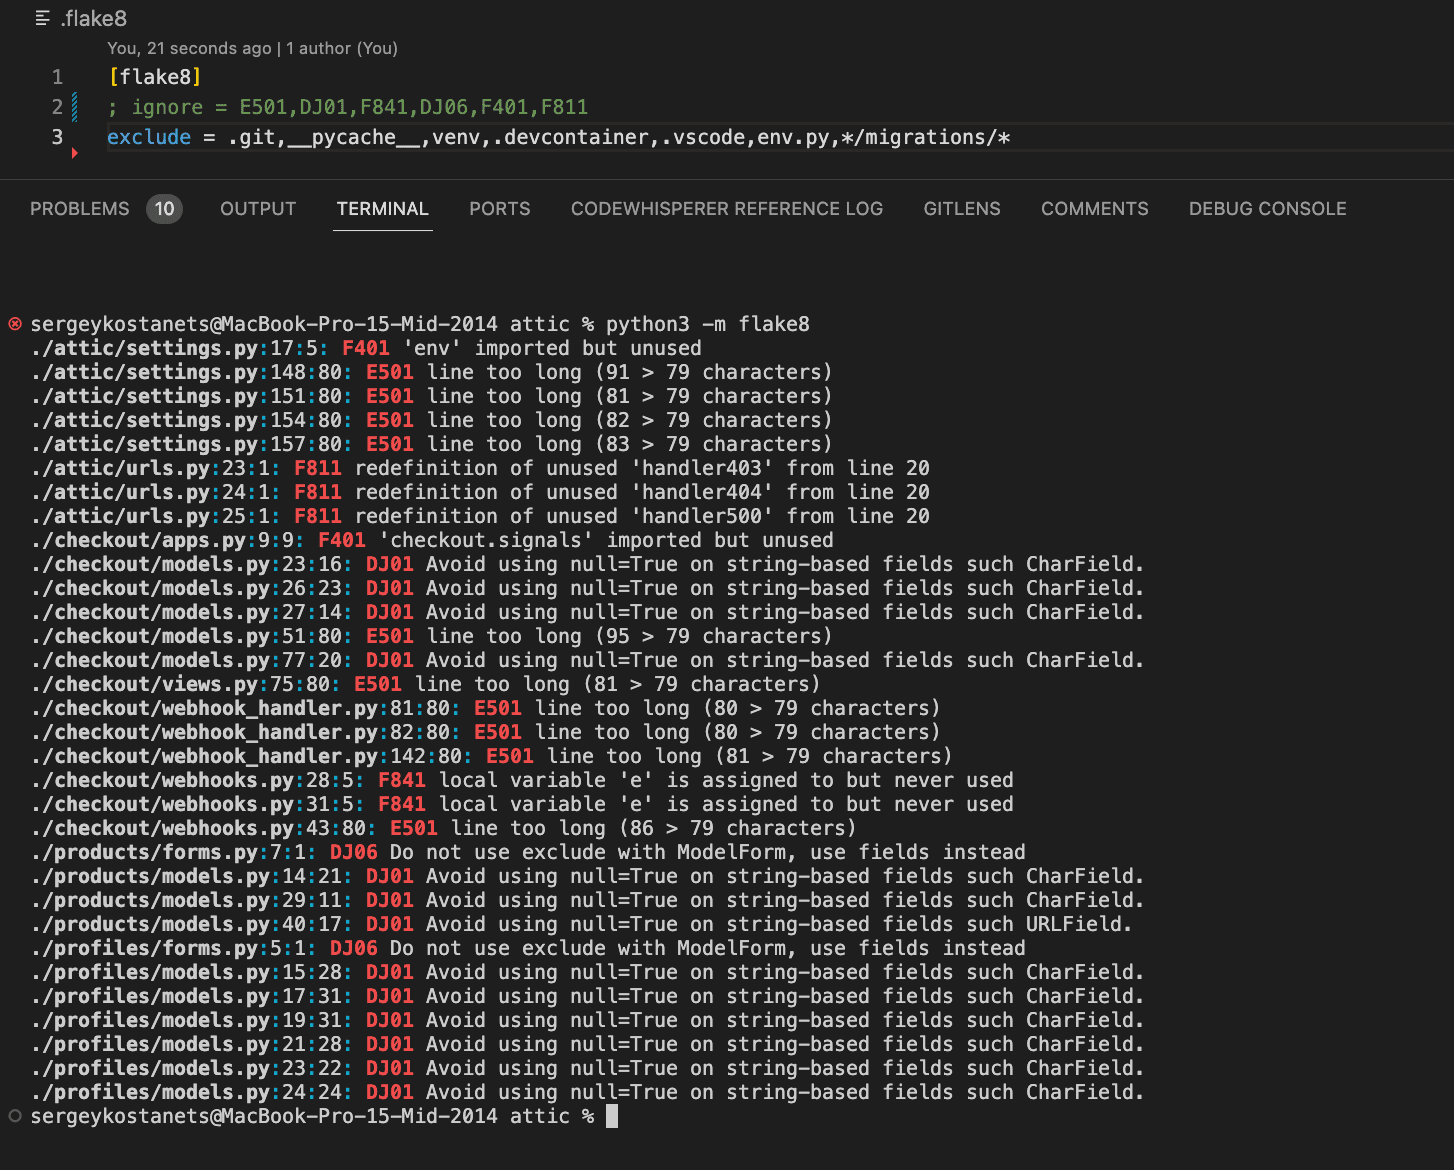
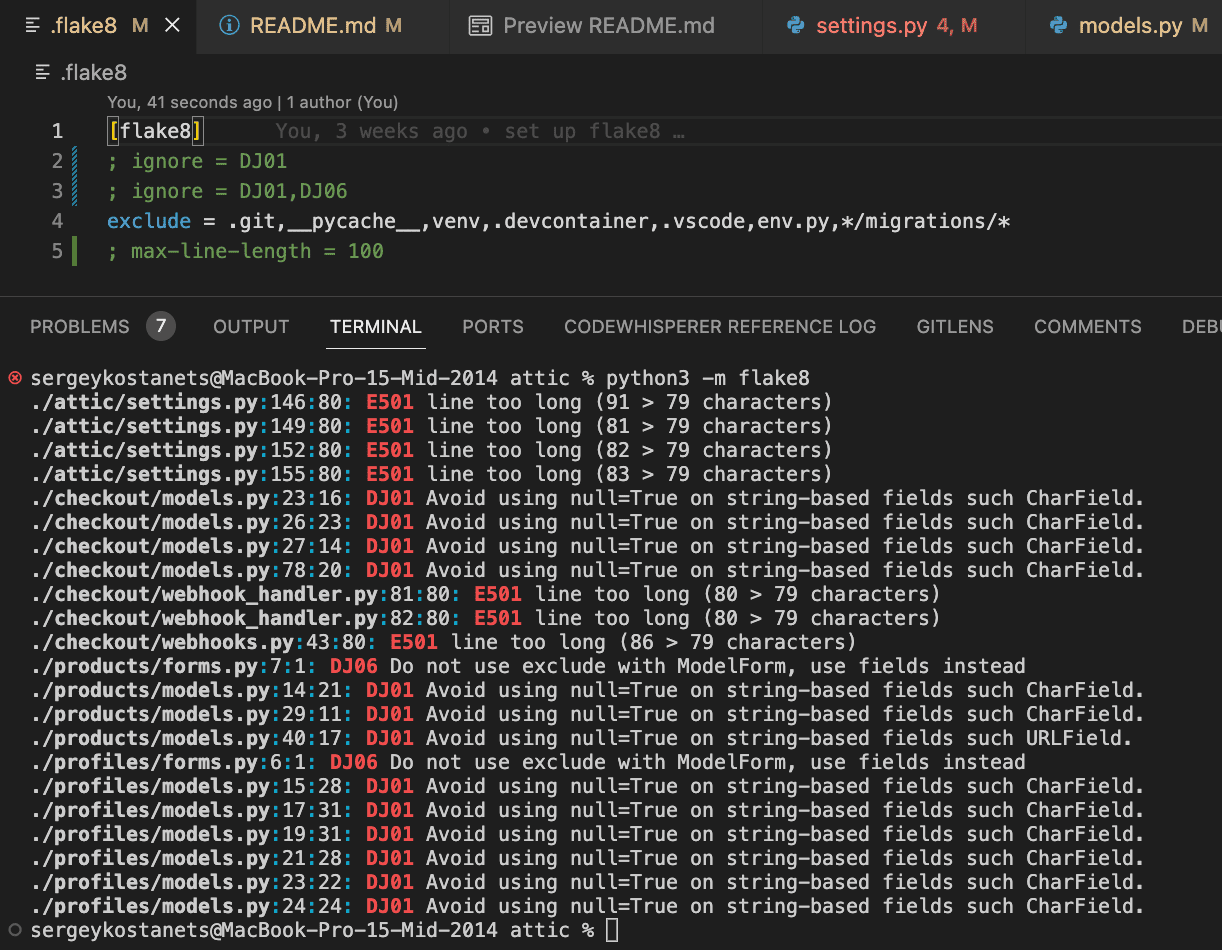
add DJ01 and DJ06 to readme

diff --git a/attic/settings.py b/attic/settings.py
@@ -13,8 +13,6 @@ https://docs.djangoproject.com/en/3.2/ref/settings/
 from pathlib import Path
 import os
 import dj_database_url
-if os.path.exists('env.py'):
-    import env
 
 # Build paths inside the project like this: BASE_DIR / 'subdir'.
 BASE_DIR = Path(__file__).resolve().parent.parent
@@ -218,7 +216,7 @@ STRIPE_SECRET_KEY = os.getenv('STRIPE_SECRET_KEY', '')
 STRIPE_WH_SECRET = os.getenv('STRIPE_WH_SECRET', '')
 
 FREE_DELIVERY_THRESHOLD = 99
-STANDARD_DELIVERY_PERCENTAGE = 20
+DELIVERY_PERCENTAGE = 20
 
 if 'DEVELOPMENT' in os.environ:
     EMAIL_BACKEND = 'django.core.mail.backends.console.EmailBackend'

diff --git a/checkout/models.py b/checkout/models.py
@@ -48,7 +48,8 @@ class Order(models.Model):
         self.order_total = self.lineitems.aggregate(
             Sum('lineitem_total'))['lineitem_total__sum'] or 0
         if self.order_total < settings.FREE_DELIVERY_THRESHOLD:
-            self.delivery_cost = self.order_total * settings.STANDARD_DELIVERY_PERCENTAGE / 100
+            delivery_perc = settings.DELIVERY_PERCENTAGE
+            self.delivery_cost = self.order_total * delivery_perc / 100
         else:
             self.delivery_cost = 0
         self.grand_total = self.order_total + self.delivery_cost

diff --git a/checkout/webhook_handler.py b/checkout/webhook_handler.py
@@ -139,7 +139,8 @@ class StripeWH_Handler:
                         )
                         order_line_item.save()
                     else:
-                        for size, quantity in item_data['items_by_size'].items():
+                        items_by_size = item_data['items_by_size']
+                        for size, quantity in items_by_size.items():
                             order_line_item = OrderLineItem(
                                 order=order,
                                 product=product,

diff --git a/checkout/views.py b/checkout/views.py
@@ -72,7 +72,8 @@ def checkout(request):
                         )
                         order_line_item.save()
                     else:
-                        for size, quantity in item_data['items_by_size'].items():
+                        items_by_size = item_data['items_by_size']
+                        for size, quantity in items_by_size.items():
                             order_line_item = OrderLineItem(
                                 order=order,
                                 product=product,

diff --git a/checkout/webhooks.py b/checkout/webhooks.py
@@ -27,10 +27,10 @@ def webhook(request):
         )
     except ValueError as e:
         # Invalid payload
-        return HttpResponse(status=400)
+        return HttpResponse(content=e, status=400)
     except stripe.error.SignatureVerificationError as e:
         # Invalid signature
-        return HttpResponse(status=400)
+        return HttpResponse(content=e, status=400)
     except Exception as e:
         return HttpResponse(content=e, status=400)
 

diff --git a/profiles/forms.py b/profiles/forms.py
@@ -30,7 +30,9 @@ class UserProfileForm(forms.ModelForm):
         }
 
         # Apply the phone number validator to the field
-        self.fields['default_phone_number'].validators.append(self.phone_number_validator)
+        self.fields['default_phone_number'].validators.append(
+            self.phone_number_validator
+        )
 
         self.fields['default_phone_number'].widget.attrs['autofocus'] = True
         for field in self.fields:

diff --git a/bag/views.py b/bag/views.py
@@ -66,7 +66,7 @@ def adjust_bag(request, item_id):
     product = get_object_or_404(Product, pk=item_id)
     quantity = int(request.POST.get('quantity'))
     if quantity < 1 or quantity > 99:
-        messages.error(request, f'Quantity must be between 1 and 99')
+        messages.error(request, 'Quantity must be between 1 and 99')
         return redirect(reverse('view_bag'))
     size = None
     if 'product_size' in request.POST:

diff --git a/bag/contexts.py b/bag/contexts.py
@@ -47,7 +47,7 @@ def bag_contents(request):
     request.session['bag'] = bag
 
     if total < settings.FREE_DELIVERY_THRESHOLD:
-        delivery = total * Decimal(settings.STANDARD_DELIVERY_PERCENTAGE / 100)
+        delivery = total * Decimal(settings.DELIVERY_PERCENTAGE / 100)
         free_delivery_delta = settings.FREE_DELIVERY_THRESHOLD - total
     else:
         delivery = 0

diff --git a/attic/urls.py b/attic/urls.py
@@ -17,7 +17,6 @@ from django.contrib import admin
 from django.urls import path, include
 from django.conf import settings
 from django.conf.urls.static import static
-from django.conf.urls import handler403, handler404, handler500
 from .views import page_not_found_local, server_error, page_forbidden
 
 handler403 = 'attic.urls.page_forbidden'

diff --git a/checkout/apps.py b/checkout/apps.py
@@ -4,6 +4,3 @@ from django.apps import AppConfig
 class CheckoutConfig(AppConfig):
 
     name = 'checkout'
-
-    def ready(self):
-        import checkout.signals

diff --git a/README.md b/README.md
@@ -966,6 +966,8 @@ When validating my own code the [W3C CSS Validator](https://jigsaw.w3.org/css-va
 
 Python code was validated according to PEP8 using the [CI Python Linter](https://pep8ci.herokuapp.com/) and [Flake8](https://pypi.org/project/flake8/). Some errors were ignored as not affecting the project.
 
+* [Flake8](https://pypi.org/project/flake8/) validation
+
 <details><summary><b>PEP Validation Result Not Ignoring Errors</b></summary>
 
 ![PEP Validation Result Not Ignoring Errors](readme/images/pep_validation_with_errors.png)
@@ -974,6 +976,61 @@ Python code was validated according to PEP8 using the [CI Python Linter](https:/
 <details><summary><b>PEP Validation Result Ignoring Errors</b></summary>
 
 ![PEP Validation Result Ignoring Errors](readme/images/pep_validation_without_errors.png)
+</details><br/>
+
+Errors description:
+
+E501 - style error of too long line. Sometimes it is not possible to fix it. This does not affect the project functionality.
+
+<details><summary><b>E501 settings</b></summary>
+
+![E501 settings](readme/images/E501_settings.png)
+</details><br/>
+
+<details><summary><b>E501 webhooks</b></summary>
+
+![E501 webhooks](readme/images/E501_webhooks.png)
+</details><br/>
+
+<details><summary><b>E501 webhook handler</b></summary>
+
+![E501 webhook handler](readme/images/E501_webhook_handler.png)
+</details><br/>
+
+It can be fixed (hidden) by increasing max line length.
+
+<details><summary><b>E501</b></summary>
+
+![E501](readme/images/E501.png)
+</details><br/>
+
+DJ01 - models affected error. I desided ignore it as this does not affect the project functionality.
+
+<details><summary><b>DJ01_products</b></summary>
+
+![DJ01_products](readme/images/DJ01_products.png)
+</details><br/>
+
+<details><summary><b>DJ01_profiles</b></summary>
+
+![DJ01_profiles](readme/images/DJ01_profiles.png)
+</details><br/>
+
+<details><summary><b>DJ01_checkout</b></summary>
+
+![DJ01_checkout](readme/images/DJ01_checkout.png)
+</details><br/>
+
+DJ06 - form related error. I desided ignore it as this does not affect the project functionality.
+
+<details><summary><b>DJ06_products</b></summary>
+
+![DJ06_products](readme/images/DJ06_products.png)
+</details><br/>
+
+<details><summary><b>DJ06_profiles</b></summary>
+
+![DJ06_profiles](readme/images/DJ06_profiles.png)
 </details><br/>
 
 [Back to top](<#contents>)
